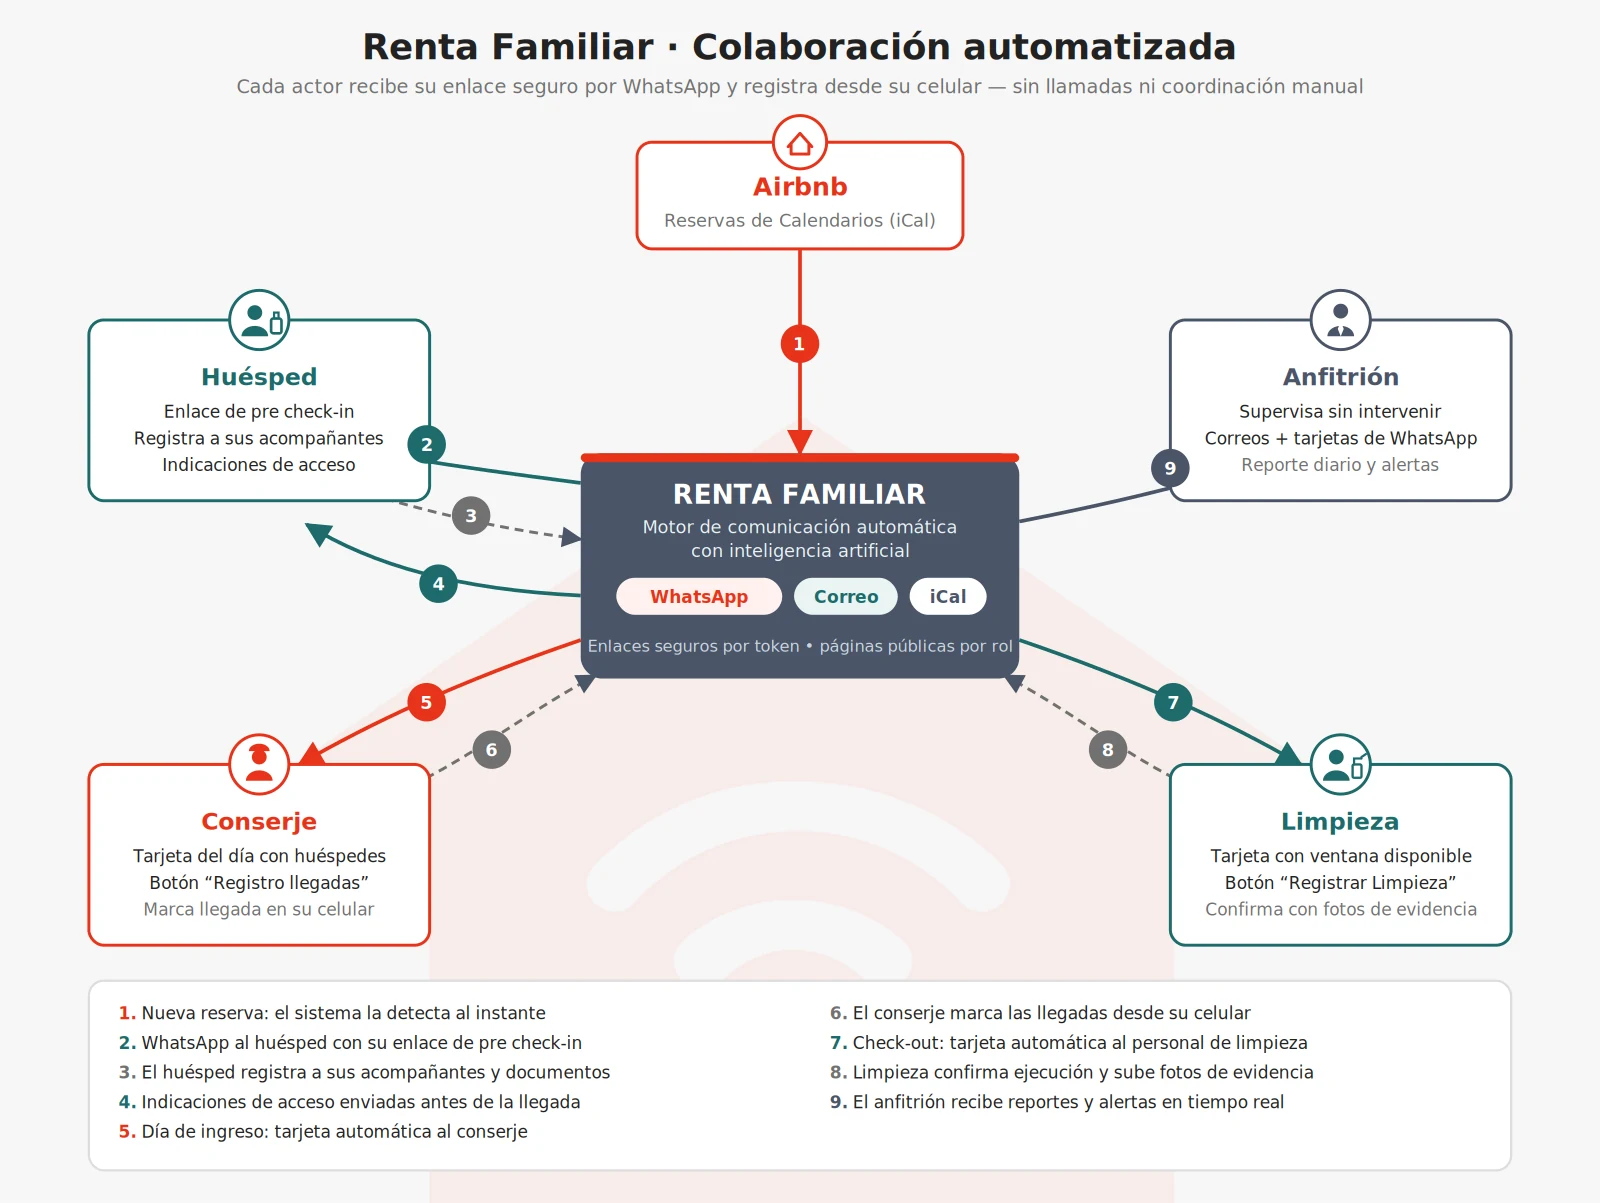
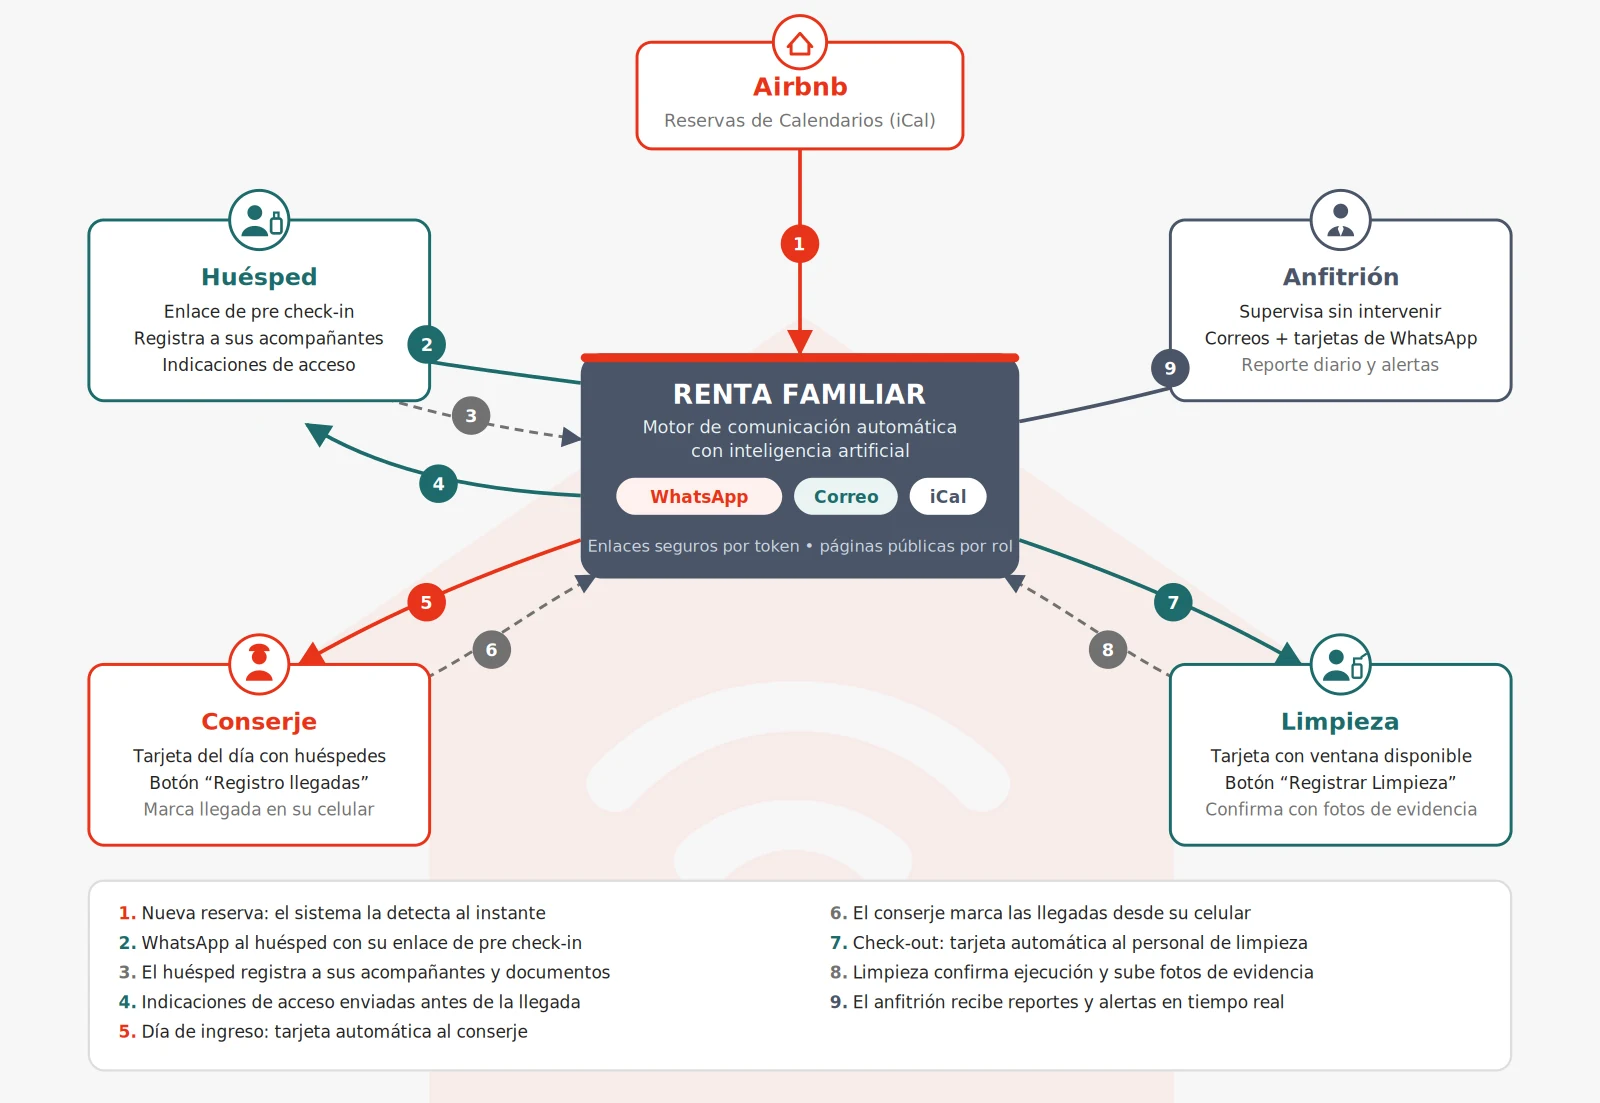
Catálogo: diagramas sin título ni frase para que sean más bajos
En los cuatro hechos como componente se quitan título y frase; en Renta Corta se recorta la
franja superior de la imagen (también desaparece el nombre antiguo «Renta Familiar»).

Changed region(s): [[0.0312, 0.185, 0.9688, 0.9556], [0.1562, 0.0, 0.8438, 0.2466], [0.6562, 0.185, 0.9688, 0.4316]]

diff --git a/videos.html b/videos.html
@@ -103,8 +103,6 @@
     .diag { position: relative; width: 1120px; transform-origin: 0 0; font-family: 'DM Sans', system-ui, sans-serif; color: #2B2F36; }
     .diag > svg { position: absolute; left: 0; top: 0; pointer-events: none; }
     .diag > div { position: absolute; box-sizing: border-box; }
-    .d-titulo { text-align: center; font-size: 26px; line-height: 32px; font-weight: 700; color: #222; }
-    .d-frase { text-align: center; font-size: 14.5px; line-height: 20px; color: #6B7280; }
     .d-centro { padding: 16px 10px 10px; display: flex; align-items: center; justify-content: center; text-align: center; background: #4A5468; border-top: 5px solid #D9381E; border-radius: 10px; box-shadow: 0 8px 22px rgba(43,47,54,.18); color: #E6E9EE; font-size: 14px; line-height: 19px; }
     .d-tarjeta { padding: 26px 10px 8px; display: flex; align-items: center; justify-content: center; text-align: center; background: #fff; border: 2.5px solid var(--c); border-radius: 10px; font-size: 14px; line-height: 19px; color: #2B2F36; }
     .d-tarjeta > svg { position: absolute; left: 50%; top: -24.5px; width: 44px; height: 44px; margin-left: -22px; }
@@ -208,15 +206,13 @@
 
   function diagrama(app) {
     const d = PROCESOS[app.id]
-    if (!d) return `<div class="proceso-img"><a href="img/procesos/renta-corta.webp?v=1" target="_blank" rel="noopener" title="Haz clic para verla en grande"><img src="img/procesos/renta-corta.webp?v=1" width="1600" height="1203" loading="lazy" alt="Cómo funciona ${app.nombre}: Airbnb avisa cada reserva, el huésped registra a sus acompañantes, el conserje marca la llegada, limpieza confirma con fotos y el anfitrión recibe reportes y alertas."></a></div>`
-    const DY = 78   // se quita la franja roja de arriba: el título queda a 20 px del borde
+    if (!d) return `<div class="proceso-img"><a href="img/procesos/renta-corta.webp?v=2" target="_blank" rel="noopener" title="Haz clic para verla en grande"><img src="img/procesos/renta-corta.webp?v=2" width="1600" height="1103" loading="lazy" alt="Cómo funciona ${app.nombre}: Airbnb avisa cada reserva, el huésped registra a sus acompañantes, el conserje marca la llegada, limpieza confirma con fotos y el anfitrión recibe reportes y alertas."></a></div>`
+    const DY = 148  // sin franja, título ni frase: el ícono del recuadro superior queda a 16 px del borde
     const pos = c => `left:${c.x}px;top:${c.y - DY}px;width:${c.w}px;${c.h ? `height:${c.h}px;` : ''}`
     const alto = d.alto - DY
     return `<div class="diag-marco" title="Haz clic para verlo en grande"><div class="diag" style="height:${alto}px" data-alto="${alto}">
       <svg viewBox="0 ${DY} 1120 ${alto}" width="1120" height="${alto}" aria-hidden="true">${d.casa}</svg>
       <svg viewBox="0 ${DY} 1120 ${alto}" width="1120" height="${alto}" aria-hidden="true">${d.lineas}</svg>
-      <div class="d-titulo" style="${pos(d.titulo)}">${d.titulo.html}</div>
-      <div class="d-frase" style="${pos(d.frase)}">${d.frase.html}</div>
       <div class="d-centro" style="${pos(d.centro)}">${d.centro.html}</div>
       ${d.tarjetas.map(t => `<div class="d-tarjeta" style="${pos(t)}--c:${t.color}"><svg viewBox="0 0 44 44" aria-hidden="true">${t.icono || ''}</svg>${t.html}</div>`).join('')}
       ${d.numeros.map(n => `<div class="d-num" style="${pos(n)}background:${n.color}" aria-hidden="true">${n.n}</div>`).join('')}
